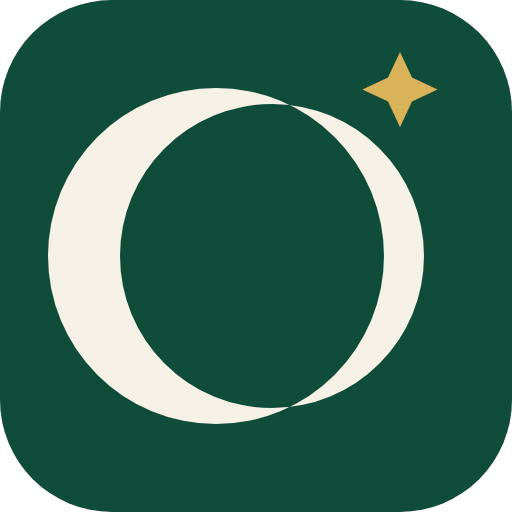
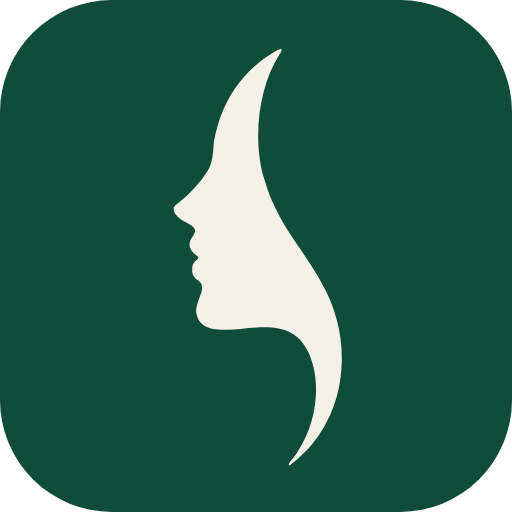
ins-site v1.5: unified brand (#7)
* ins-site v1.5: unified brand (closes #6)

* BRAND.md: drop owner name, quote and sandbox path

* BRAND.md: canonical clean version from rebuilt v1.5

---------

Changed region(s): [[0.0938, 0.0938, 0.8438, 0.875], [0.7188, 0.0938, 0.8438, 0.25], [0.5625, 0.875, 0.5938, 0.9062]]

diff --git a/index.html b/index.html
@@ -15,7 +15,7 @@
 </head>
 <body>
 <header class="top">
-  <a class="brand" href="#top" aria-label="Ins"><img class="mark" src="favicon.svg" alt="" width="34" height="34"><span class="brand-name"><span data-l="ar">إنس</span><span data-l="en">Ins</span></span></a>
+  <a class="brand" href="#top" aria-label="Ins"><img class="mark" src="logo-face.svg" alt="" width="34" height="34"><span class="brand-name"><span data-l="ar">إنس</span><span data-l="en">Ins</span></span></a>
   <button id="lang" class="lang" type="button" aria-label="Language">
     <span data-l="ar">English</span><span data-l="en">العربية</span>
   </button>

diff --git a/BRAND.md b/BRAND.md
@@ -1,11 +1,26 @@
-# Ins brand assets
+# Ins brand kit (v2, unified 2026-10-19)
 
-Palette: green `#0f4c3a`, gold `#b58a2a` / `#d9b25a`, cream `#f6f1e7`, ink `#17261f`.
+## The mark
+The face-crescent: a female face in profile whose hair sweeps into a crescent.
+Vector-traced from the avatar approved on 2026-10-15; the trace is the single
+source of truth for every render. Never redraw by hand; always derive from the
+master vector (kept in the brand workspace, not in this repo).
 
-- `favicon.svg` / `logo.svg` — crescent + star mark (legible at 16px)
-- `logo-face.svg` — detailed mark: face profile turning into a crescent (large sizes, avatars)
-- `favicon-32.png`, `apple-touch-icon.png` (180), `icon-192.png`, `icon-512.png` — raster icons from the plain mark
-- `avatar-square-1024.png` — profile picture, square (rounded tile)
-- `avatar-round-1024.png` — profile picture, circle-crop safe (full-bleed green)
+## Colorways
+- Primary (all external surfaces): lavender #e4dbf9 on navy #1e1b4a
+- Site colorway: cream #f6f1e7 on green #0f4c3a
+- Mono: #111 on #fff / #fff on #111 (fallback only)
 
-Rules: Arabic-first RTL, Egyptian voice, halal/modest, no tracking, no external requests, nothing private.
+## Rules
+- One mark on every profile surface: chat apps, groups, Slack, GitHub, Google.
+- Round-safe variant (mark at 88% height) for any surface that circle-crops.
+- Small-size companion: crescent+star (favicon.svg) is used for 16/32px
+  favicons only, where the face is illegible.
+- Name: إِنس (never أنس); Arabic feminine forms always.
+
+## Files on this site
+- logo.svg: unified master tile (navy)
+- logo-face.svg: site colorway tile (green), used as header mark
+- favicon.svg / favicon-32.png: crescent+star companion
+- icon-192/512.png, apple-touch-icon.png: site colorway tile renders
+- avatar-square-1024.png / avatar-round-1024.png: primary colorway renders
